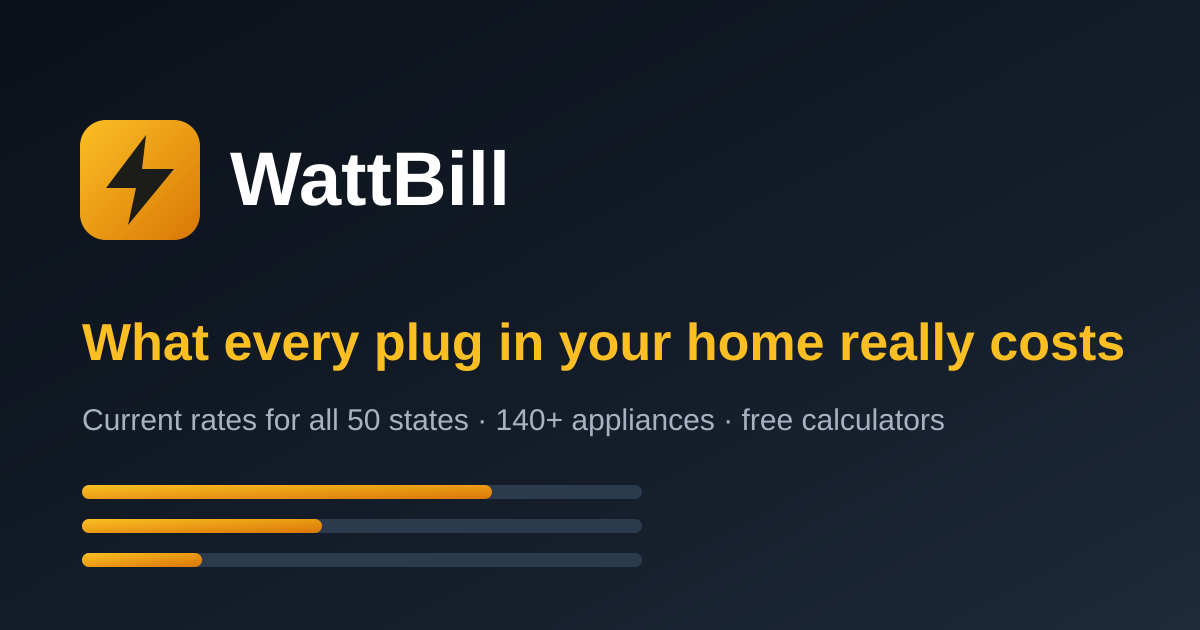
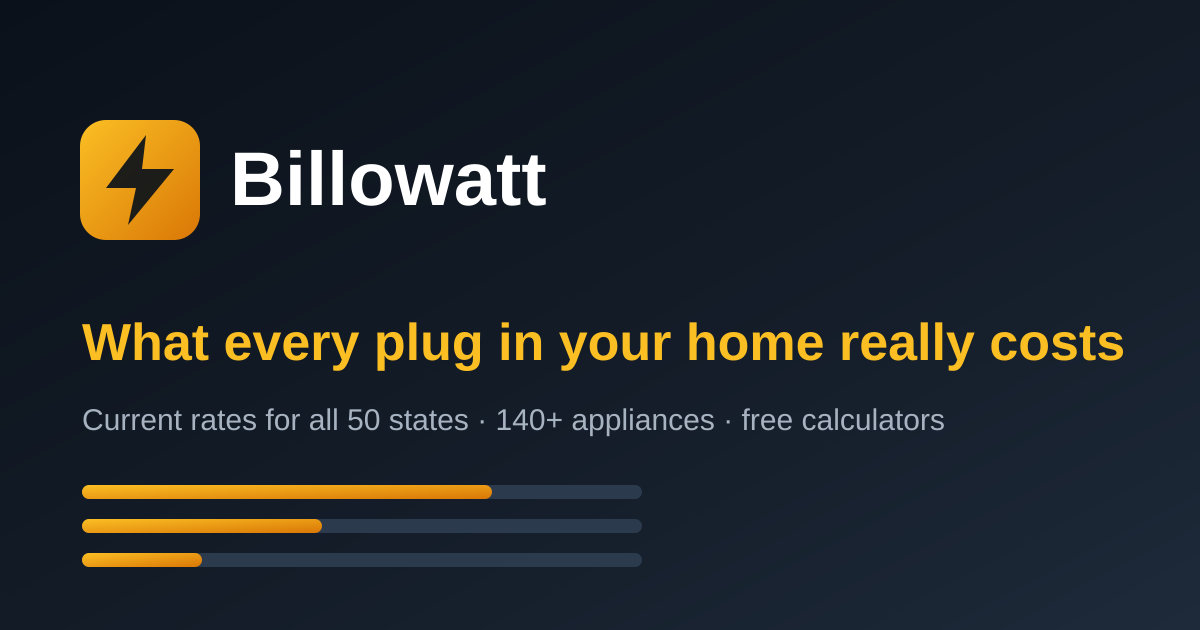
Rebrand to Billowatt (billowatt.com)
Claude-Session: https://claude.ai/code/session_01TUsbo8Nw3pdAJdAQZJnhc4

Changed region(s): [[0.185, 0.2413, 0.4625, 0.3317]]

diff --git a/src/config.js b/src/config.js
@@ -6,14 +6,14 @@
  * available, change SITE_NAME + SITE_URL here and rebuild — nothing else.
  */
 
-export const SITE_NAME = 'WattBill';
-export const SITE_URL = 'https://wattbill.com';
+export const SITE_NAME = 'Billowatt';
+export const SITE_URL = 'https://billowatt.com';
 export const SITE_TAGLINE = 'What every plug in your home really costs';
 export const SITE_DESCRIPTION =
   'Find out what any appliance costs to run using current electricity rates for your state — not a stale national average. Free calculators, state-by-state data, and a bill analyzer.';
 
 /** Contact address — set up free Cloudflare Email Routing to forward this. */
-export const CONTACT_EMAIL = 'hello@wattbill.com';
+export const CONTACT_EMAIL = 'hello@billowatt.com';
 
 /**
  * Google AdSense publisher ID, e.g. 'ca-pub-1234567890123456'.

diff --git a/README.md b/README.md
@@ -1,4 +1,4 @@
-# WattBill
+# Billowatt
 
 **What every plug in your home really costs.** A state-aware home electricity cost
 platform: interactive bill analyzer, cost-to-run calculators, and ~4,000
@@ -38,10 +38,10 @@ one file to change if the domain choice differs.
 
 ### 1. Domain + hosting (~15 min)
 
-1. Buy the domain in Cloudflare (Registrar → Register). Preferred: `wattbill.com`;
-   fallbacks in order: `plugcost.com`, `wattcosts.com`, `costtorun.com`, `kwhcost.com`.
-   **If not using wattbill.com**: update `SITE_NAME`, `SITE_URL`, `CONTACT_EMAIL` in
-   `src/config.js` and the sitemap URL in `public/robots.txt`.
+1. Buy `billowatt.com` in Cloudflare (Registrar → Register). The site is already
+   branded for it. (If the name ever changes: update `SITE_NAME`, `SITE_URL`,
+   `CONTACT_EMAIL` in `src/config.js`, the sitemap URL in `public/robots.txt`,
+   and rerun `npm run og`.)
 2. Cloudflare dashboard → **Workers & Pages → Create → Pages → Connect to Git** →
    pick this repo and branch.
    - Build command: `npm run build`
